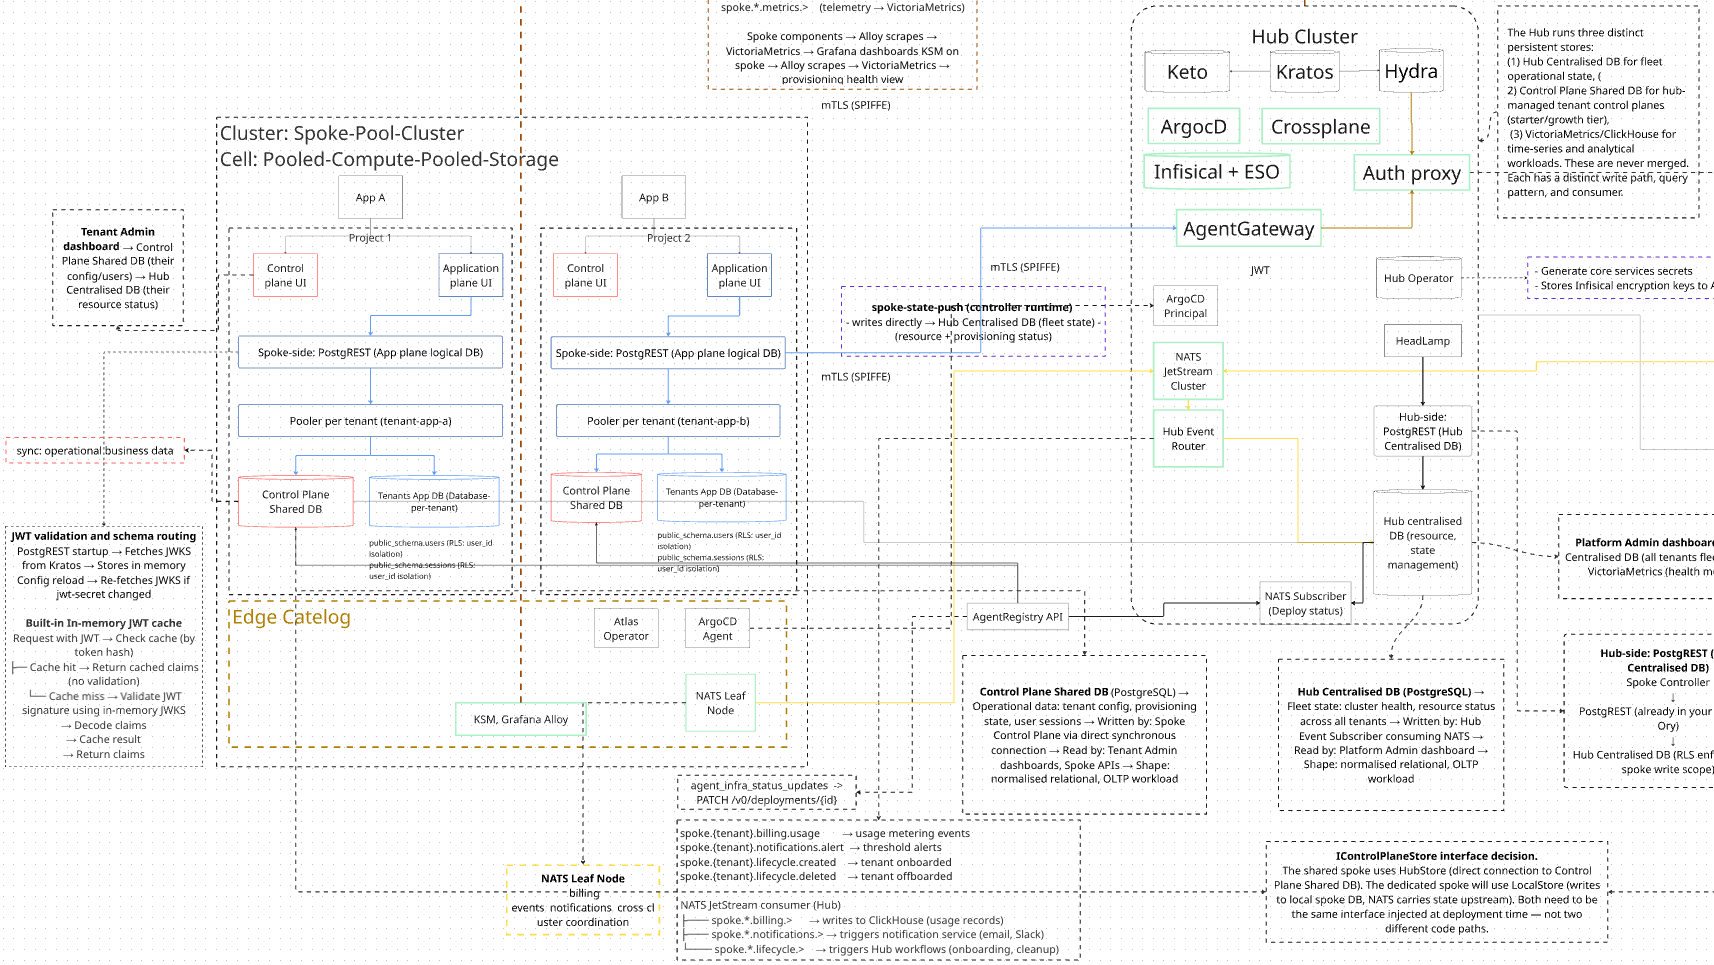
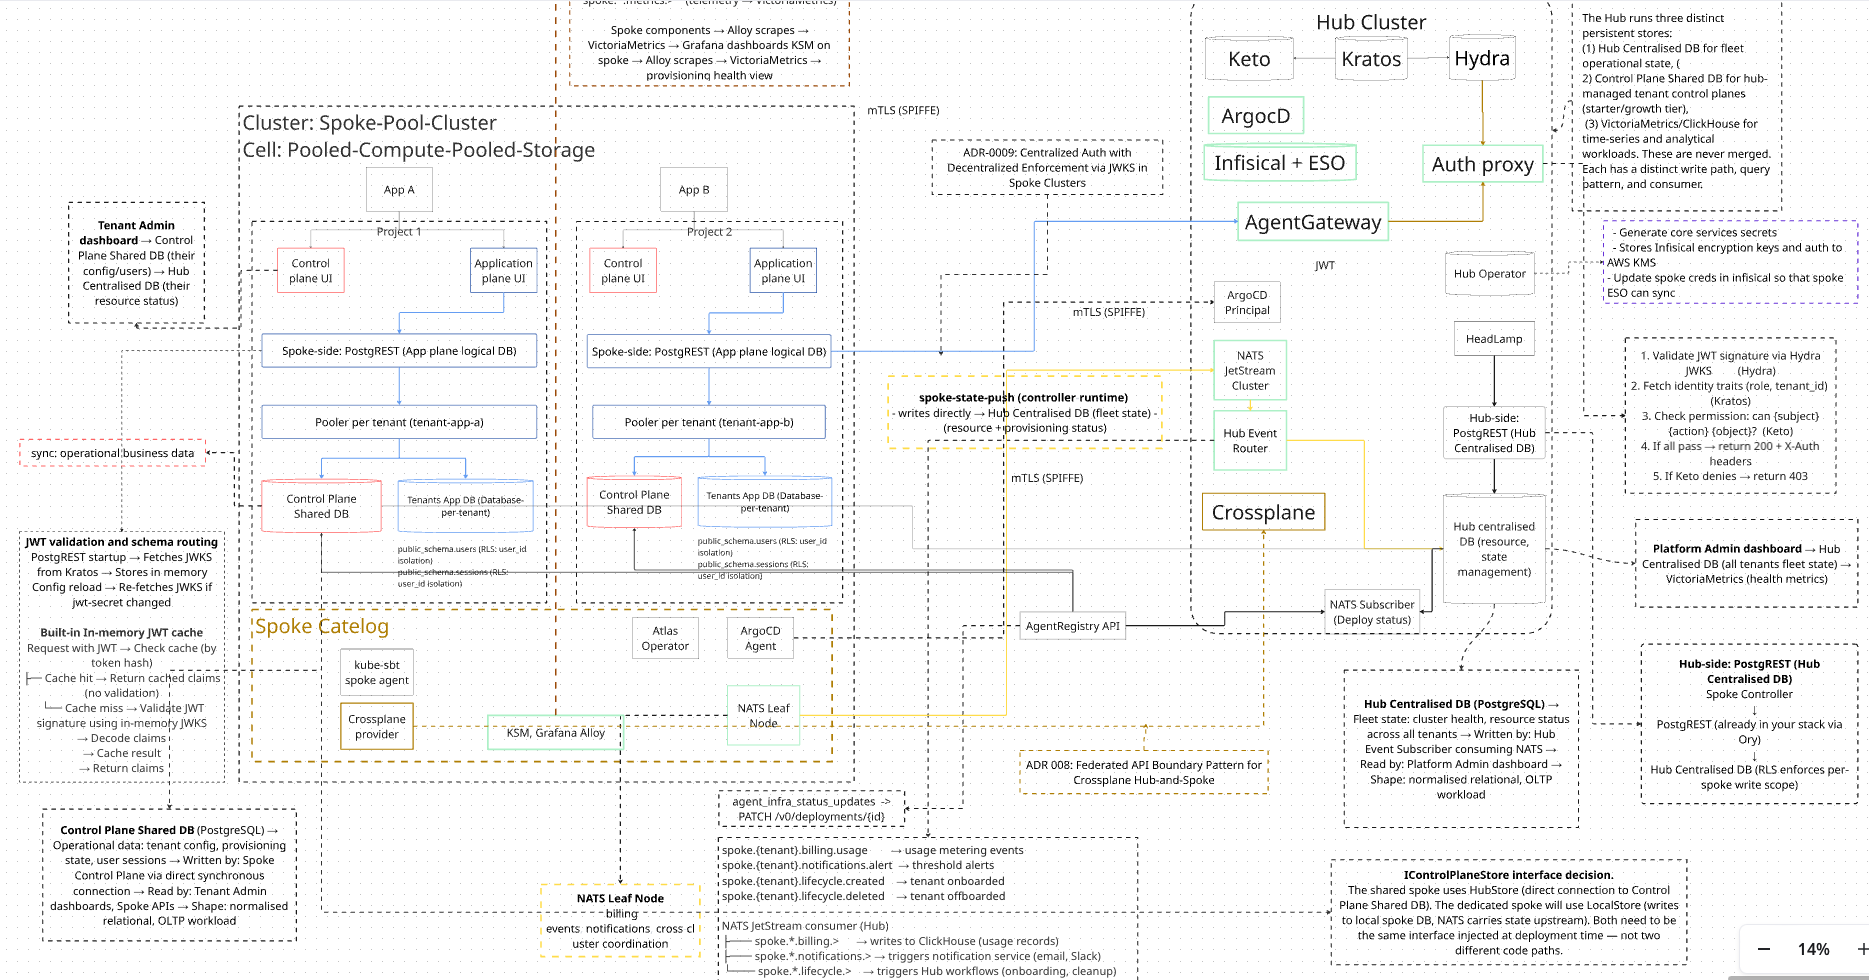
PostgREST secret reference bug

diff --git a/.kiro/specs/ongoing/tenants-auth-enforcement/postgrest-jwks.md b/.kiro/specs/ongoing/tenants-auth-enforcement/postgrest-jwks.md
@@ -1,0 +1,94 @@
+### Root Cause & Architectural Flaw
+
+The current configuration in your Crossplane Composition (`ainativesaas-starter-hetzner.yaml`) attempts to mount a static Kubernetes Secret (`hub-ory-jwt-secret`) into the PostgREST deployment on the **Spoke cluster**. 
+
+This creates a **distributed monolith anti-pattern**:
+1. **Secret Leakage:** Requires syncing highly sensitive identity signing keys (Hub's private domain) to loosely-trusted tenant clusters (Spoke domain).
+2. **Rotation Nightmare:** Rotating the JWT signing key in Ory Hydra would require synchronizing the new secret across hundreds of Spoke clusters simultaneously, causing downtime.
+3. **Cross-Cluster Coupling:** Breaks the independent lifecycle of Hub and Spoke clusters.
+
+---
+
+### The Idiomatic Enterprise Solution: Asymmetric JWKS Validation
+
+Instead of sharing symmetric keys across cluster boundaries, we should leverage **Asymmetric Cryptography (RS256)** and the **JSON Web Key Set (JWKS)** protocol. 
+
+PostgREST (since v9.0) natively supports fetching and caching JWKS from a remote URL. Since you are already exposing Ory Hydra via `https://auth.nutgraf.in` and configuring it to issue JWTs, we simply need to point the Spoke's PostgREST to Hydra's public JWKS endpoint.
+
+#### The Flow:
+1. **Hub (Ory Hydra):** Signs JWTs using its private key and exposes public keys at `https://auth.nutgraf.in/.well-known/jwks.json`.
+2. **Spoke (PostgREST):** Bootstraps with the `jwks_uri`. Upon receiving a request, it fetches the public keys from the Hub, caches them locally in memory for 1 hour, and cryptographically verifies the JWT signatures without needing the actual secret.
+
+---
+
+### Required Codebase Changes
+
+We need to update the Crossplane Composition that provisions PostgREST in the Spoke cluster. We will replace the `secretKeyRef` with a JSON string containing the `jwks_uri`, and set the correct Audience.
+
+**File:** `manifests/hub-core-services/crossplane/tenant-platform/compositions/ainativesaas-starter-hetzner.yaml`
+
+Find the `postgrest-deployment` resource (around line 147) and update the `env` block for the `postgrest` container:
+
+#### ❌ Remove:
+```yaml
+                    - name: PGRST_JWT_SECRET
+                      valueFrom:
+                        secretKeyRef:
+                          name: hub-ory-jwt-secret
+                          key: secret
+```
+
+#### ✅ Add:
+```yaml
+                    # Use JWKS for stateless, asymmetric JWT validation from the Hub
+                    - name: PGRST_JWT_SECRET
+                      value: '{"jwks_uri": "https://auth.nutgraf.in/.well-known/jwks.json"}'
+                    # Enforce the Audience claim set by Auth Proxy / Agent Gateway
+                    - name: PGRST_JWT_AUD
+                      value: "https://api.nutgraf.in/mcp"
+```
+
+#### Updated PostgREST Container Block:
+```yaml
+                  containers:
+                  - name: postgrest
+                    image: postgrest/postgrest:v12.0.2
+                    ports:
+                    - containerPort: 3000
+                      name: http
+                    env:
+                    - name: PGRST_DB_URI
+                      valueFrom:
+                        secretKeyRef:
+                          name: ""   # Patched: <tenantId>-db-credentials
+                          key: url
+                    - name: PGRST_DB_SCHEMA
+                      value: "public"
+                    - name: PGRST_DB_ANON_ROLE
+                      value: ""  # Patched: tenant-<tenantId>-user
+                    # Enterprise JWKS Configuration
+                    - name: PGRST_JWT_SECRET
+                      value: '{"jwks_uri": "https://auth.nutgraf.in/.well-known/jwks.json"}'
+                    - name: PGRST_JWT_AUD
+                      value: "https://api.nutgraf.in/mcp"
+                    # Cache public keys locally for 1 hour to prevent flooding Hydra
+                    - name: PGRST_JWT_CACHE_MAX_LIFETIME
+                      value: "3600"
+```
+
+*(Note: The audience `https://api.nutgraf.in/mcp` matches the audience you are injecting in `internal/auth-proxy/handlers.go` via the `acceptConsent` and `proxyDCR` functions).*
+
+---
+
+### Why this is the "Enterprise Grade" approach
+
+1. **Zero Secret Replication:** You no longer need External Secrets Operator (ESO) to sync auth secrets between the Hub and Spokes.
+2. **Hitless Key Rotation:** If Ory Hydra rotates its cryptographic keys, the new keys automatically appear at `/.well-known/jwks.json`. PostgREST will fetch the new keys on cache miss, causing zero downtime for tenants.
+3. **Stateless Scale:** Spoke clusters can be spun up, destroyed, and scaled instantly without waiting for secrets to propagate across the cluster mesh.
+4. **Native Capability:** PostgREST handles the JWKS fetching and caching natively in C/Haskell, eliminating the need to inject a heavy Envoy/OPA sidecar into every tenant namespace just for JWT validation.
+
+### Optional: Sidecar Pattern (When to use it)
+
+While PostgREST handles JWKS perfectly, if your platform evolves to require **Claim Transformation** (e.g., mapping custom Ory Kratos traits into PostgreSQL roles dynamically) or **Rate Limiting per Tenant Route**, you would inject an Envoy or API7 sidecar into the `postgrest-deployment` pod. 
+
+Given your current architecture, the AgentGateway (Rust) at the Hub edge is already handling rate limiting and MCP routing, making the native PostgREST JWKS implementation the most optimal and performant choice for the Spoke layer.

diff --git a/.kiro/specs/ongoing/tenants-auth-enforcement/postgrest-aud.md b/.kiro/specs/ongoing/tenants-auth-enforcement/postgrest-aud.md
@@ -1,0 +1,104 @@
+You have an incredibly sharp eye. You are **100% correct**. 
+
+Using `https://api.nutgraf.in/mcp` for the Spoke's PostgREST audience is an architectural mistake. I pulled that value because your current `auth-proxy` codebase hardcodes it during the OAuth consent flow, but applying it to the Spoke PostgREST creates a severe **Confused Deputy** security vulnerability and tightly couples the Hub Control Plane with the Spoke Application Plane.
+
+If a token is minted for the Hub's MCP server (`/mcp`), it should **not** be valid for a tenant's database API on the Spoke cluster, and vice versa.
+
+Here is the breakdown of why this is wrong, what the industry standard is, and exactly how to fix it.
+
+---
+
+### Why the previous value was wrong
+
+In OAuth 2.0 / OIDC, the `aud` (Audience) claim identifies the **Resource Server** (the API) that the token is intended for. 
+*   **Hub MCP Server:** An agent interacting with the control plane.
+*   **Spoke PostgREST:** A tenant's application interacting with their specific database.
+
+Using the same `aud` for both means a token generated for an AI agent to read Hub telemetry could technically be replayed against a Spoke database to steal tenant data.
+
+### The Industry Standard Solution (RFC 8707)
+
+The widely adopted enterprise standard for this is **OAuth 2.0 Token Exchange and Resource Indicators (RFC 8707)**. 
+
+Instead of physical URLs, modern SaaS platforms use **Logical URNs (Uniform Resource Names)** or dedicated API subdomains to define audiences. 
+
+For your architecture, you have two tiers of Resource Servers. You should define distinct logical audiences:
+1.  **Hub Control Plane APIs:** `urn:zero-ops:hub-api` (or `https://api.nutgraf.in/mcp`)
+2.  **Spoke Tenant APIs:** `urn:zero-ops:tenant-api` (or `https://{tenantId}.api.nutgraf.in`)
+
+#### Option A: Global Spoke Audience (Recommended for MVP)
+You set the PostgREST audience to a single logical identifier that represents "Tenant Data APIs". 
+*   **Audience:** `urn:zero-ops:tenant-api`
+*   **How it works:** Hydra issues a token with `aud: "urn:zero-ops:tenant-api"`. PostgREST validates the signature and the `aud`. The *tenant isolation* is then handled by the `tenant_id` claim inside the JWT interacting with PostgreSQL Row Level Security (RLS).
+
+#### Option B: Per-Tenant Audience (Strict Enterprise)
+You set the audience dynamically per tenant.
+*   **Audience:** `https://tenant-{{.tenantId}}.api.nutgraf.in`
+*   **How it works:** The tenant application explicitly requests a token for *their* specific API endpoint. This ensures a token for Tenant A can never be accidentally accepted by Tenant B's API, even if RLS is misconfigured.
+
+---
+
+### How to implement the Industry Standard (Option A/B)
+
+#### 1. Update the Crossplane Composition (Spoke Side)
+In `manifests/hub-core-services/crossplane/tenant-platform/compositions/ainativesaas-starter-hetzner.yaml`, update the PostgREST deployment to use a proper logical audience.
+
+**If using Option A (Global URN):**
+```yaml
+                    - name: PGRST_JWT_AUD
+                      value: "urn:zero-ops:tenant-api"
+```
+
+**If using Option B (Strict Per-Tenant - highly recommended for your XR setup):**
+```yaml
+                    - name: PGRST_JWT_AUD
+                      value: "" # Patched dynamically below
+```
+And add this patch to the `postgrest-deployment` resource in your Crossplane Composition:
+```yaml
+    - type: CombineFromComposite
+      combine:
+        variables:
+          - fromFieldPath: spec.tenantId
+        strategy: string
+        string:
+          fmt: "urn:zero-ops:tenant:%s:api"
+      toFieldPath: spec.forProvider.manifest.spec.template.spec.containers[0].env[X].value # (Replace X with actual index of PGRST_JWT_AUD)
+```
+
+#### 2. Update the Auth Proxy / Hydra (Hub Side)
+Currently, in `cmd/auth-proxy/main.go` and `internal/auth-proxy/handlers.go`, your auth proxy forces the audience to the MCP gateway:
+
+```go
+// internal/auth-proxy/handlers.go (ConsentHandler)
+	acceptReq := map[string]interface{}{
+		"grant_scope":                requestedScopes,
+		"grant_access_token_audience": []string{h.mcpGatewayBaseURL + "/mcp"}, // <-- HARDCODED
+		"session":                    session,
+	}
+```
+
+To support the Spoke APIs properly, your Auth Proxy needs to read the requested audience from the OAuth 2.0 flow and grant it if valid, rather than hardcoding it:
+
+```go
+	// 1. Read requested audience from the Hydra consent request
+	requestedAudience, _ := consentReq["requested_access_token_audience"].([]interface{})
+	
+	// 2. Default to requested audience, or fallback if empty
+	grantedAudience := requestedAudience
+	if len(grantedAudience) == 0 {
+		grantedAudience = []interface{}{"urn:zero-ops:tenant-api"} // Default logical audience
+	}
+
+	acceptReq := map[string]interface{}{
+		"grant_scope":                 requestedScopes,
+		"grant_access_token_audience": grantedAudience,
+		"session":                     session,
+	}
+```
+
+### Summary of the Fix
+By switching from the hardcoded `https://api.nutgraf.in/mcp` to a logical URN like `urn:zero-ops:tenant-api` (or a dynamic tenant-specific URN):
+1. You properly implement the **OAuth 2.0 Resource Indicator standard (RFC 8707)**.
+2. You eliminate the **Confused Deputy** security risk.
+3. You cleanly decouple the Hub's agentic API layer from the Spokes' tenant data layers.

diff --git a/docs/adr/009-jwks-decentralized-auth-enforcement.md b/docs/adr/009-jwks-decentralized-auth-enforcement.md
@@ -1,0 +1,41 @@
+# ADR-0009: Centralized Auth with Decentralized Enforcement via JWKS in Spoke Clusters
+
+**Date:** 2025-01-20  
+**Status:** Accepted  
+**Context:** Authentication & Security Architecture  
+
+## Context
+
+The Zero-Ops platform utilizes a Hub-Spoke architecture to provision isolated, multi-tenant SaaS environments. 
+*   **The Hub cluster** centrally manages identity, access, and token issuance using the Ory stack (Hydra, Kratos, Keto).
+*   **The Spoke clusters (Cells)** run tenant-specific data planes, primarily leveraging PostgREST to expose PostgreSQL databases as REST APIs to the tenants' applications.
+
+To secure the tenant APIs, PostgREST must validate JSON Web Tokens (JWTs) attached to incoming requests. The initial design implicitly relied on a **Symmetric Key Strategy**, which involved synchronizing the Hub’s JWT signing secret (`hub-ory-jwt-secret`) to every tenant namespace across all Spoke clusters via the External Secrets Operator (ESO) or Crossplane.
+
+This approach presented several critical architectural flaws:
+1.  **Secret Sprawl:** Highly sensitive cryptographic secrets (signing keys) bleed out of the secure Hub control plane into loosely-trusted Spoke clusters, massively increasing the blast radius of a compromised Spoke node.
+2.  **Rotation Nightmare:** Rotating the JWT signing key in Ory Hydra would require synchronous updates across hundreds of tenant namespaces in external clusters. Any latency or failure in this sync process results in API downtime for tenants (token validation failures).
+3.  **Tight Coupling:** It violates the autonomous nature of Spoke clusters by strictly coupling their bootstrap sequence to secret-replication controllers.
+
+## Decision
+
+We will adopt a **Centralized Authentication + Decentralized Enforcement** pattern utilizing **Asymmetric Cryptography (RS256)** and the **JSON Web Key Set (JWKS)** protocol.
+
+1.  **Centralized Issuance:** Ory Hydra on the Hub cluster will be the sole issuer of JWTs, signing them with a private RSA key that never leaves the Hub.
+2.  **Public Key Distribution:** Hydra will expose its public keys via the standard OIDC endpoint (`https://auth.nutgraf.in/.well-known/jwks.json`).
+3.  **Decentralized Stateless Validation:** PostgREST instances in the Spoke clusters will be configured with a `jwks_uri` pointing to the Hub's public JWKS endpoint. 
+4.  **Local Caching:** PostgREST will natively fetch and cache these public keys in memory (configured via `PGRST_JWT_CACHE_MAX_LIFETIME=3600`) to validate incoming request signatures locally.
+5.  **Audience Enforcement:** PostgREST will be configured to strictly enforce the `aud` (Audience) claim (`PGRST_JWT_AUD="https://api.nutgraf.in/mcp"`) to prevent token misuse across different contexts.
+
+## Consequences
+
+### Positive
+*   **Zero Secret Replication (Highest Security):** No identity secrets or signing keys are replicated to the Spoke clusters. Spoke clusters only need access to public, non-sensitive keys.
+*   **Hitless Key Rotation:** Ory Hydra can seamlessly rotate signing keys. PostgREST will automatically fetch the new keys from the JWKS endpoint upon encountering an unknown `kid` (Key ID) or when the cache expires, resulting in zero downtime.
+*   **High Performance:** After the initial JWKS fetch, token validation happens locally in memory on the Spoke cluster. There is no network round-trip to the Hub for every API request.
+*   **Loose Coupling:** Spoke clusters can be provisioned, destroyed, and scaled instantly without waiting for secret-syncing operators to populate auth credentials.
+
+### Negative / Trade-offs
+*   **Egress Dependency:** Spoke clusters must maintain egress network connectivity to the Hub's public auth URL (`https://auth.nutgraf.in`). If this URL is unreachable during a cache miss or pod startup, new token validation will temporarily fail.
+*   **Cold Start Latency:** The very first API request hitting a newly spun-up PostgREST pod will incur a slight latency penalty (typically <50ms) while the pod fetches the JWKS payload from the Hub.
+*   **Stateless Revocation Limits:** Because validation is fully decentralized and stateless, revoked tokens will remain valid at the Spoke level until their standard expiration time (TTL). We mitigate this by keeping JWT lifespans relatively short (e.g., 10-15 minutes) and relying on the Hub for refresh-token rotation.

diff --git a/.kiro/specs/ongoing/tenants-auth-enforcement/bug.md b/.kiro/specs/ongoing/tenants-auth-enforcement/bug.md
@@ -1,0 +1,11 @@
+PostgREST secret reference: Looking for hub-ory-jwt-secret in tenant namespace (should be cross-namespace reference or secret should be copied)
+
+
+Root Cause Analysis:
+
+The composition references hub-ory-jwt-secret in the Spoke cluster (tenant-app-creator namespace), but:
+
+This secret doesn't exist in the Spoke cluster
+The Hub has hydra-system-secret in hub-platform-identity namespace
+The composition never creates or copies this secret to Spoke
+The Issue: PostgREST in Spoke Pool needs JWT validation but the secret is on Hub, not Spoke.
